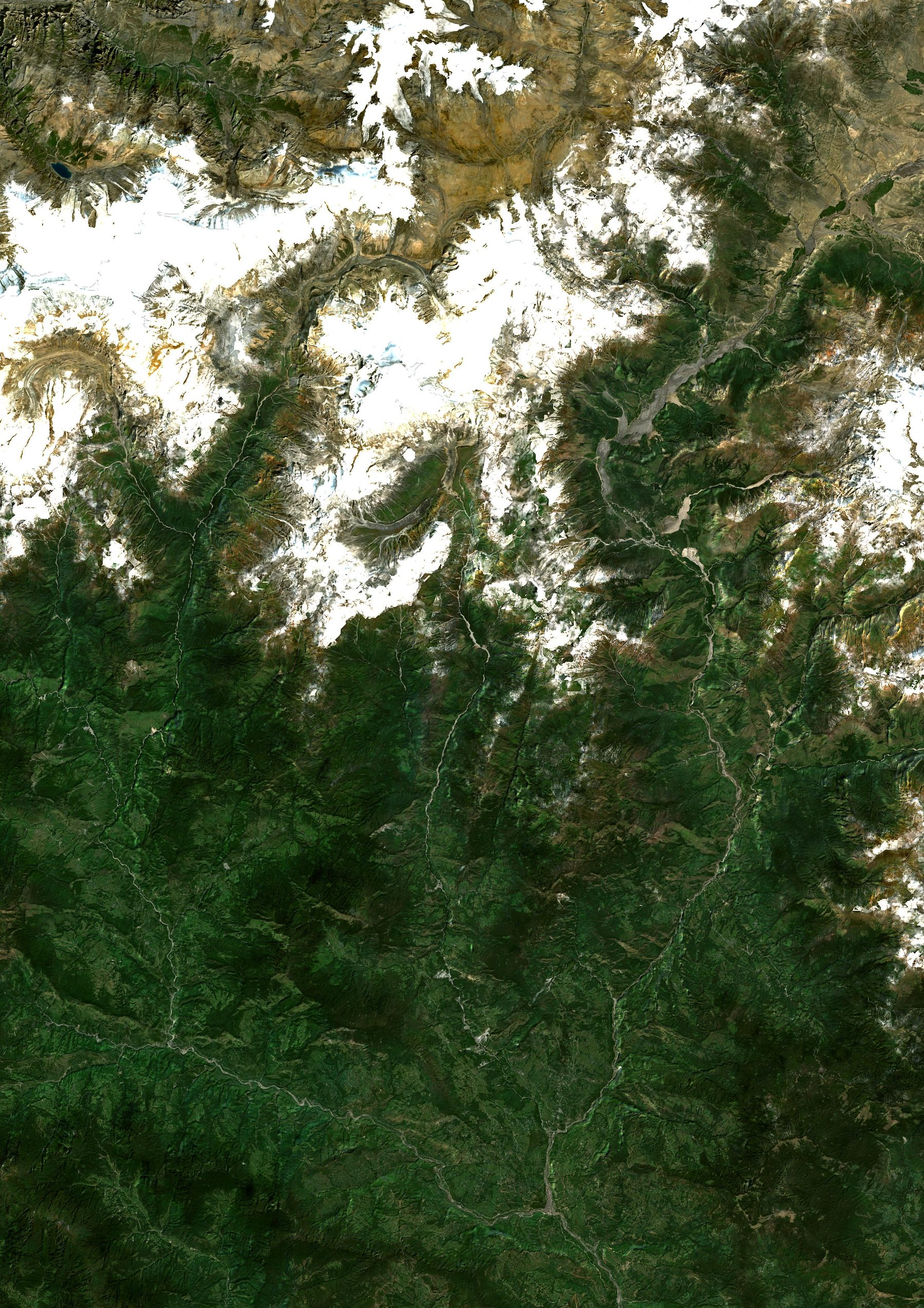
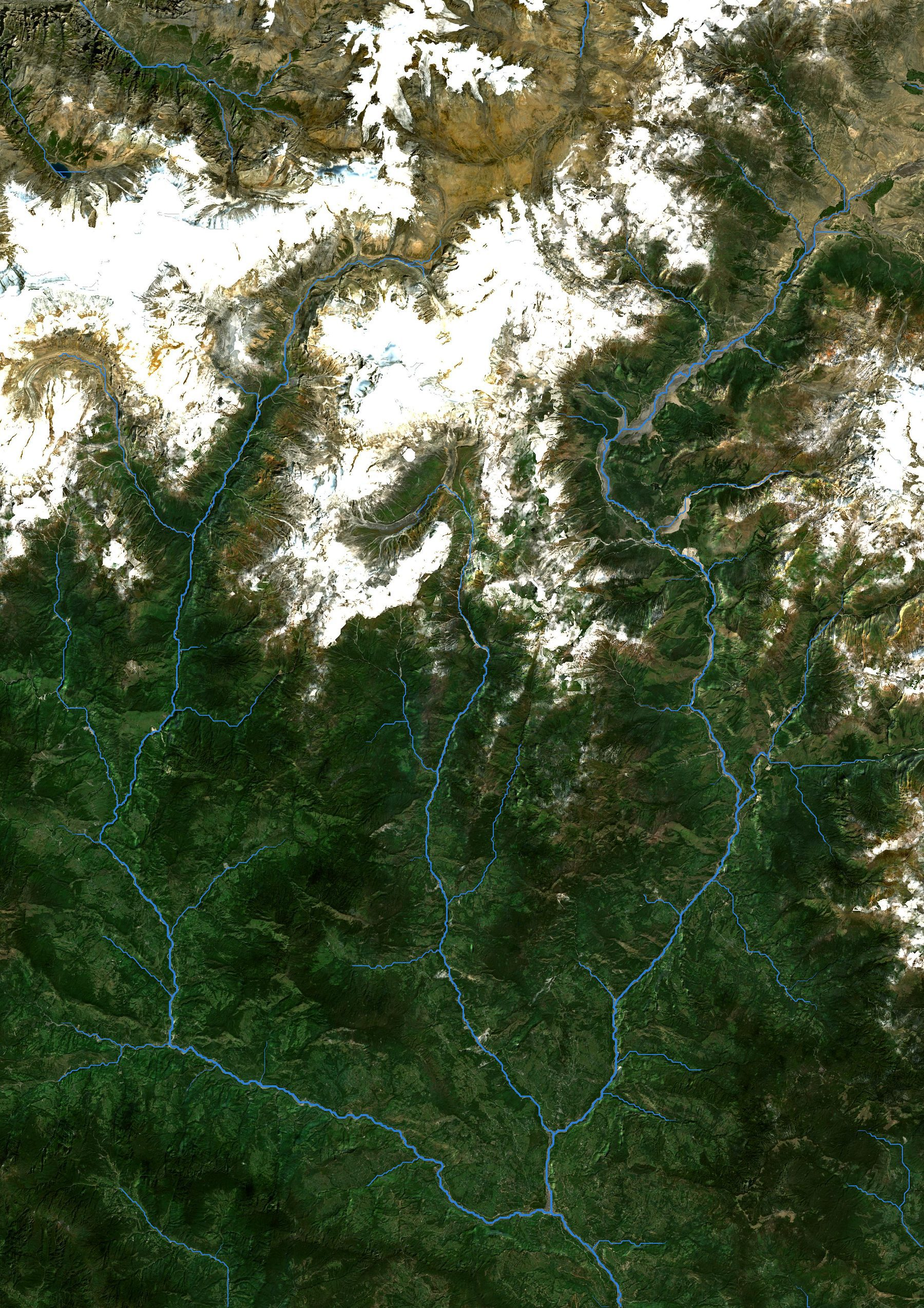
Dhaulagiri 3D: view from the hills above Darbang; rivers in blue

diff --git a/assets/dhaulagiri.js b/assets/dhaulagiri.js
@@ -6,7 +6,7 @@
 // Terrain: Copernicus GLO-30 DEM (© DLR e.V. 2010–2014 and © Airbus 2014–2018, provided under
 // COPERNICUS by the European Union and ESA), averaged to 400 × 498, 28.30–28.86° N, 83.30–83.75° E.
 // Surface: Sentinel-2 cloudless 2020 by EOX IT Services GmbH (contains modified Copernicus
-// Sentinel data 2020), CC BY-NC-SA 4.0.
+// Sentinel data 2020), CC BY-NC-SA 4.0. Streams painted on in blue from flow accumulation on the same terrain.
 import * as THREE from 'three';
 import { OrbitControls } from 'three/addons/controls/OrbitControls.js';
 import { Line2 } from 'three/addons/lines/Line2.js';
@@ -161,9 +161,9 @@ function play(stage) {
   const d0 = cam.position.distanceTo(look); scene.fog.near = d0 * 1.1; scene.fog.far = d0 * 3;
   const overP = cam.position.clone(), overL = look.clone();
 
-  // the first view: standing on the green hills above Muri, looking up the valley to Dhaulagiri I
-  const hillP = new THREE.Vector3(X(83.405), Y(ground(28.455, 83.405)) + 1.6, Zw(28.455));
-  const hillL = new THREE.Vector3(X(83.4897), Y(7200), Zw(28.6975));
+  // the first view: on the green hills above Darbang, looking up the valley to Dhaulagiri I and the range
+  const hillP = new THREE.Vector3(X(83.43), Y(ground(28.385, 83.43)) + 2.4, Zw(28.385));
+  const hillL = new THREE.Vector3(X(83.47), Y(6200), Zw(28.69));
   function go(P, L, ms) {
     const p0 = cam.position.clone(), l0 = ctl.target.clone(), t0 = performance.now();
     (function step(t) { const k = Math.min(1, (t - t0) / ms), e = k < .5 ? 2 * k * k : 1 - Math.pow(-2 * k + 2, 2) / 2;
@@ -191,7 +191,7 @@ if (stage) new IntersectionObserver((es, io) => {
   Promise.all([
     fetch('data/dhaulagiri-dem.bin').then(r => r.arrayBuffer()),
     fetch('data/dhaulagiri-circuit.json').then(r => r.json()),
-    new THREE.TextureLoader().loadAsync('images/site/dhaulagiri-s2.jpg'),
+    new THREE.TextureLoader().loadAsync('images/site/dhaulagiri-s2.jpg?v=3'),
   ]).then(([dem, trail, t]) => {
     Z = new Uint16Array(dem); T = trail; tex = t; tex.colorSpace = THREE.SRGBColorSpace; tex.anisotropy = 8;
     play(stage);

diff --git a/dhaulagiri.html b/dhaulagiri.html
@@ -120,6 +120,6 @@ fetch('data/dhaulagiri-circuit.json').then(function(r){return r.json()}).then(fu
 });
 </script>
 <script type="importmap">{"imports":{"three":"https://cdn.jsdelivr.net/npm/three@0.160.0/build/three.module.js","three/addons/":"https://cdn.jsdelivr.net/npm/three@0.160.0/examples/jsm/"}}</script>
-<script type="module" src="assets/dhaulagiri.js?v=8"></script>
+<script type="module" src="assets/dhaulagiri.js?v=10"></script>
 </body>
 </html>
